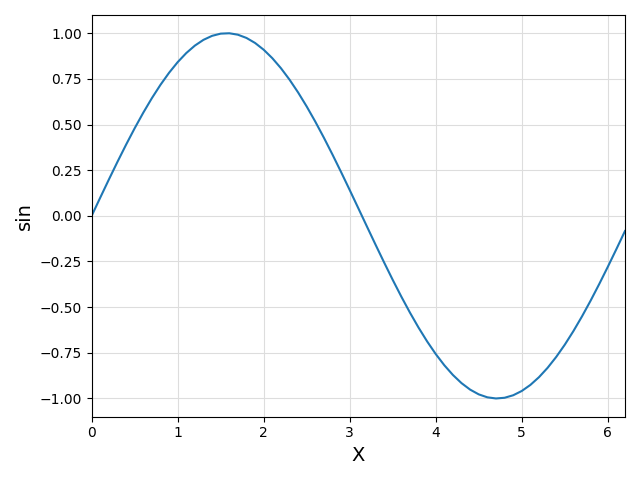
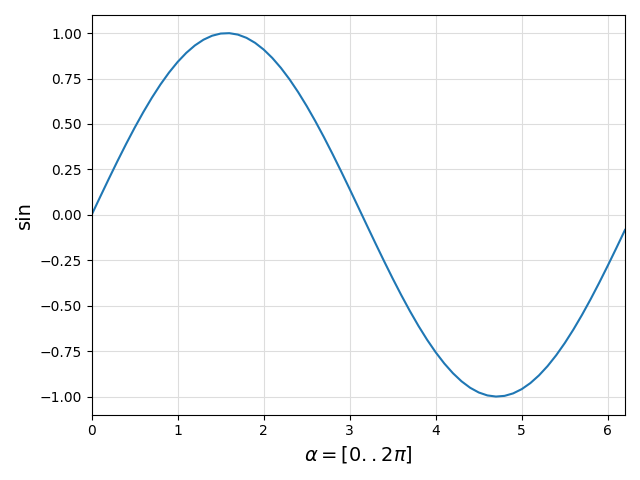
Explain the use of LaTeX

diff --git a/README.md b/README.md
@@ -57,14 +57,16 @@ pkg"add ControlPlots"
 ### Basic example
 Launch Julia with `julia --project`. Then execute:
 ```julia
-using ControlPlots
+using ControlPlots, LaTeXStrings
 
 X = 0:0.1:2pi
 Y = sin.(X)
-p = plot(X, Y, xlabel="X", ylabel="sin", fig="basic")
+p = plot(X, Y, xlabel=L"\alpha = [0..2\pi]", ylabel="sin", fig="basic")
 ```
 A plot window like this should pop up:
 <p align="center"><img src="./docs/basic.png" width="400" /></p>
+
+The package `LaTeXStrings` is only required if you want to use LaTeX for any of your labels like in the example above. You need to prefix LaTeX strings with the letter `L`.
 
 You can now close the plot window.
 You can re-display the plot by typing:
